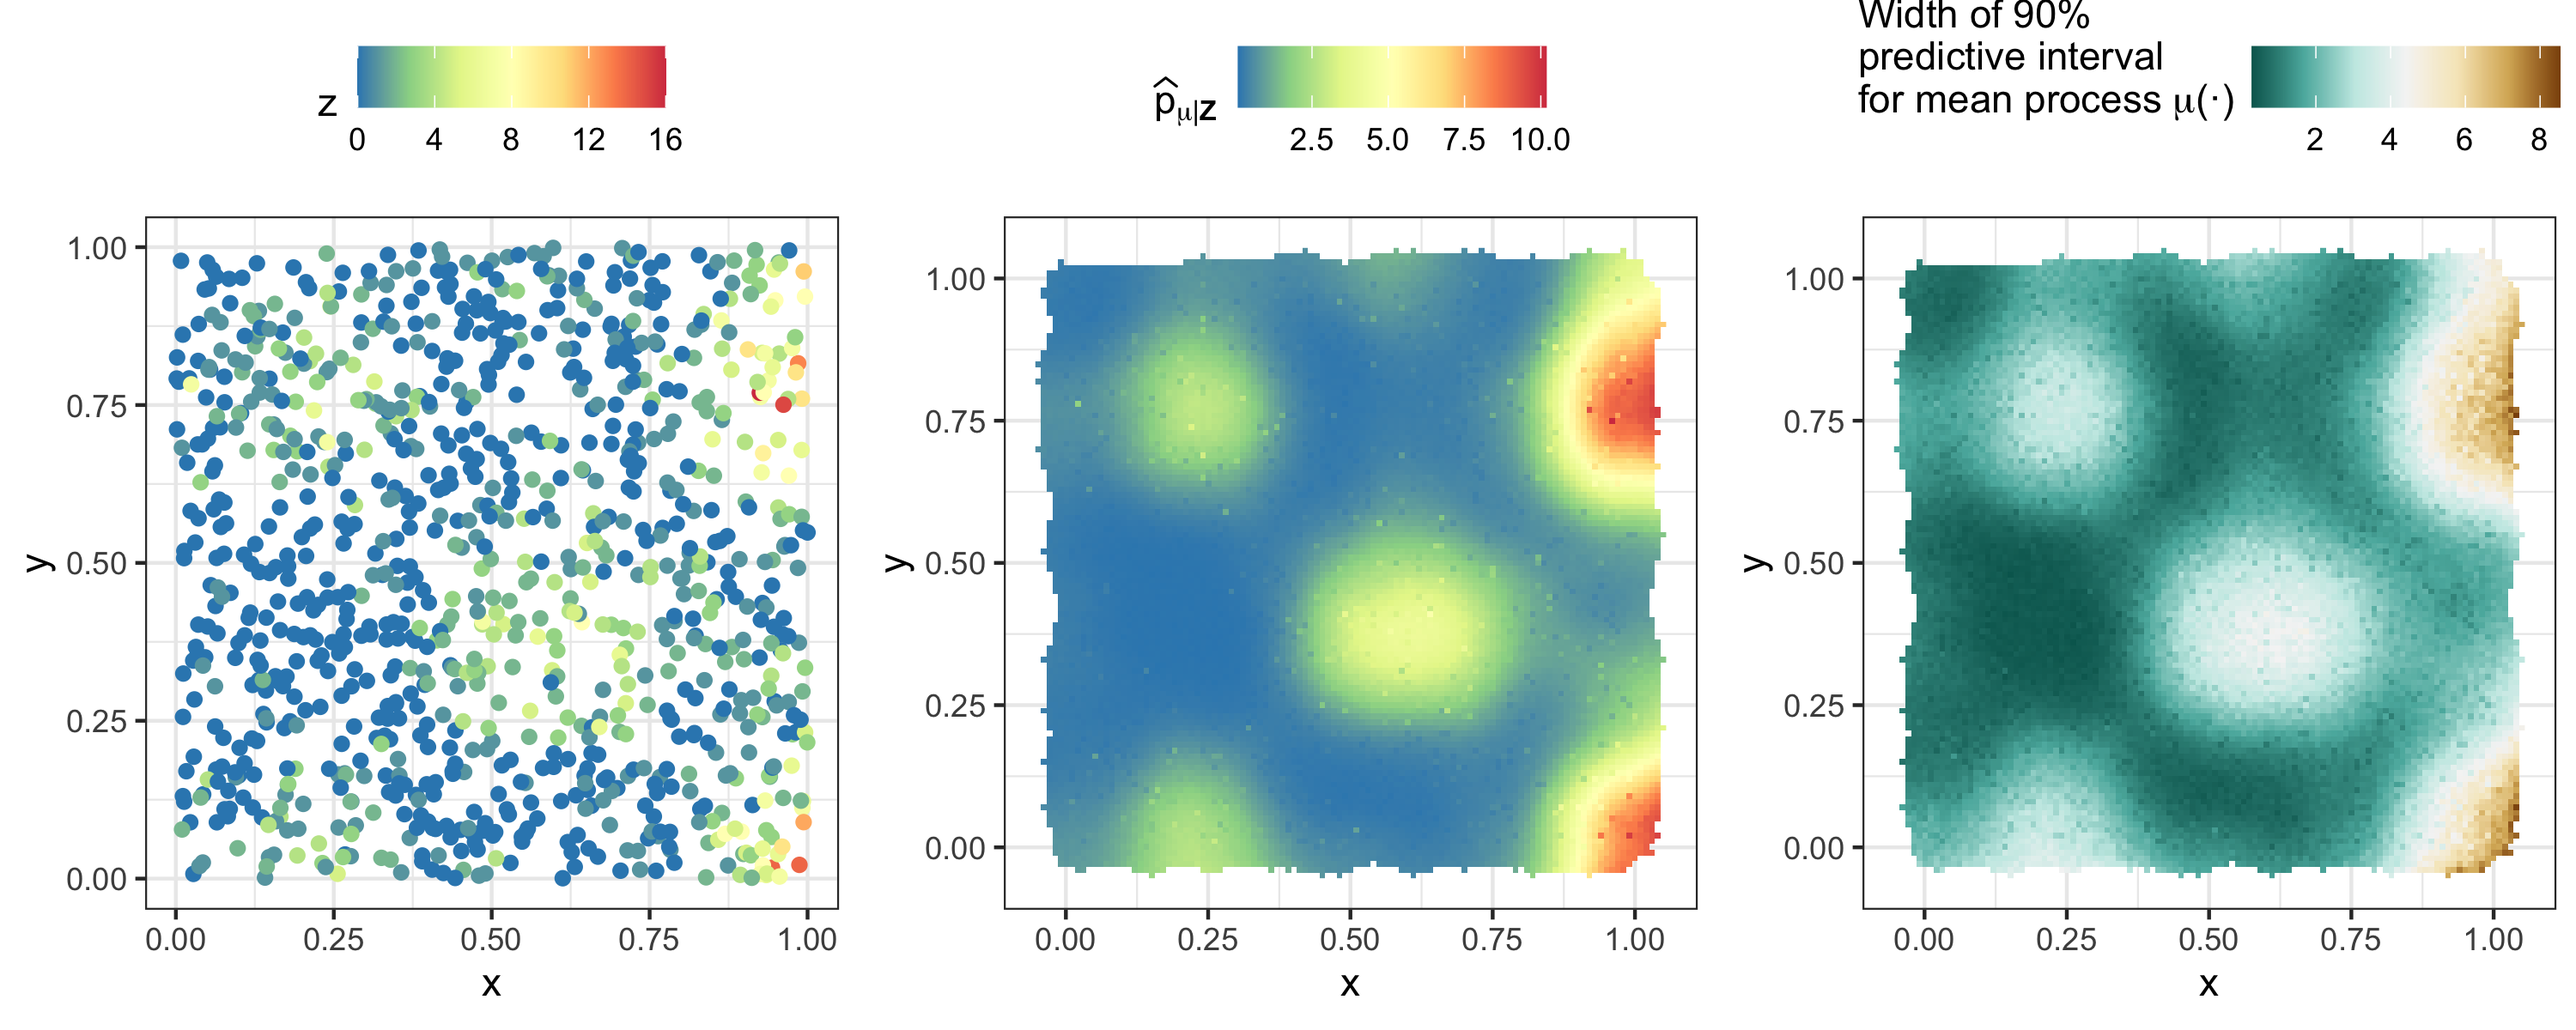
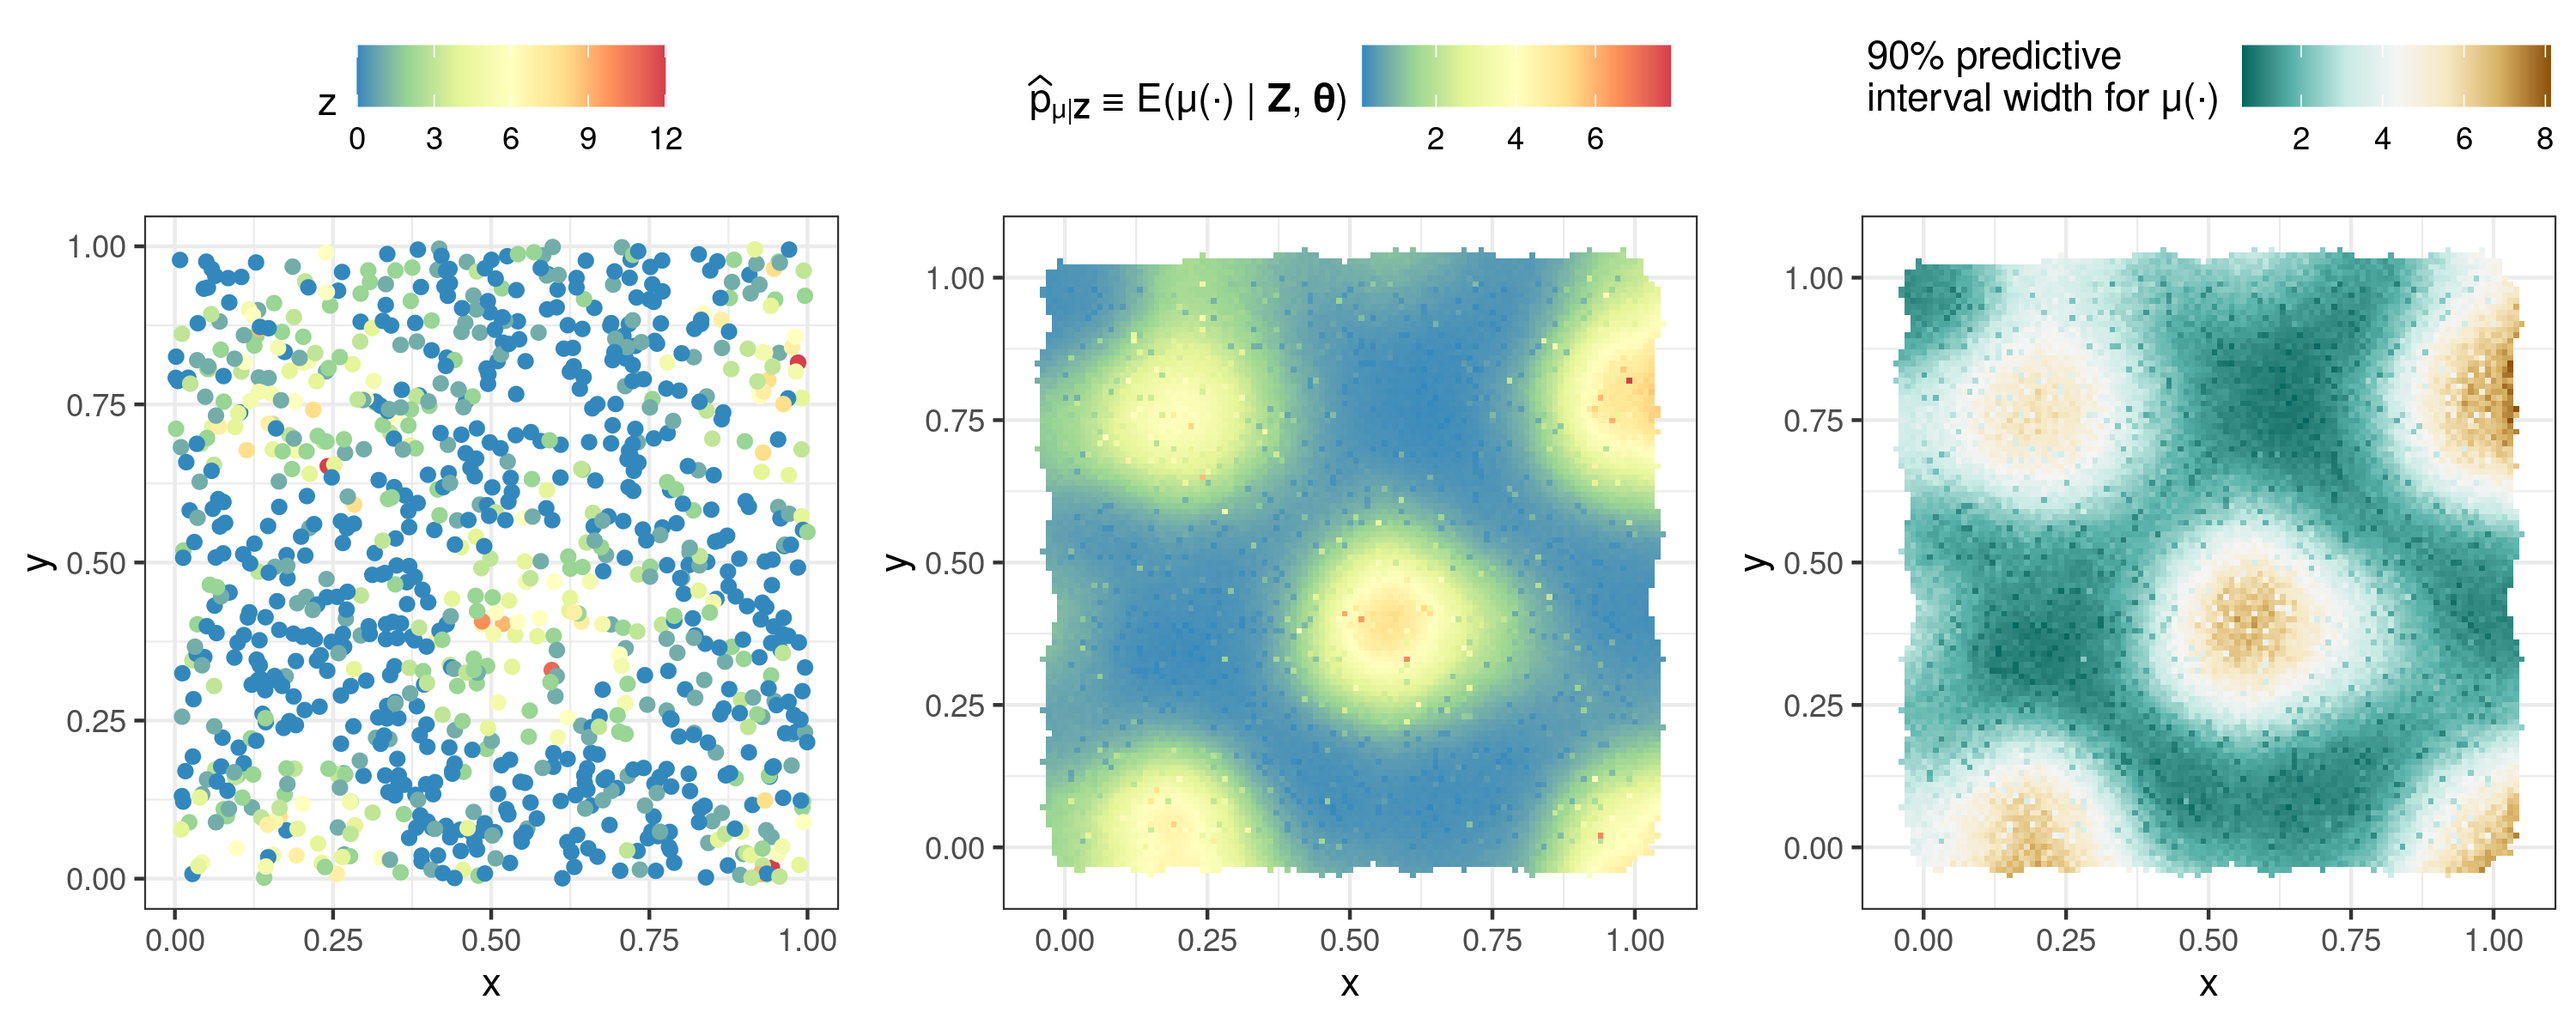
Updated README

diff --git a/README.md b/README.md
@@ -87,7 +87,6 @@ pred <- predict(S)                          # Prediction stage
 
 ## Plotting
 plot_list <- plot(S, pred)
-plot_list <- c(plot_list, plot_spatial_or_ST(zdf, "z"))
 ggarrange(plotlist = plot_list, nrow = 1, legend = "top")
 
 ```
@@ -96,7 +95,7 @@ ggarrange(plotlist = plot_list, nrow = 1, legend = "top")
 ggsave( 
   filename = "Gaussian_data.png", device = "png", 
   width = 10, height = 4,
-  path = "~/Desktop/"
+  path = "~/Dropbox/FRK/man/figures/"
 )
 --->
 
@@ -107,32 +106,26 @@ ggsave(
 Here we analyse simulated Poisson data. We signify a Poisson data model with a mean response that is modelled using the square-root link function by setting `response = "poisson"` and `link = "square-root"` in `FRK()`. Other non-Gaussian data models available in `FRK` are the binomial, negative-binomial, gamma, and inverse-Gaussian. 
 
 ```r
-## Setup
-## Simulate Poisson data, using the data of the previous example to construct a mean 
-RNGversion("3.6.0"); set.seed(1)                          
+## Simulate Poisson data using the previous example's data to construct a mean 
 zdf$z <- rpois(m, lambda = zdf$z^2)
 
 ## Run FRK
-S <- FRK(f = z ~ 1,                           # Formula to FRK
-         list(zdf),                           # All datasets are supplied in list
+S <- FRK(f = z ~ 1, list(zdf),                          
          response = "poisson",                # Poisson data model
          link = "square-root")                # square-root link function
-pred <- predict(S)                            # prediction stage
-
+pred <- predict(S)                            
 
 ## Plotting
 plot_list <- plot(S, pred$newdata)
-plot_list <- c(plot_list, plot_spatial_or_ST(zdf, "z"))
 ggarrange(plot_list$z, plot_list$p_mu, plot_list$interval90_mu, 
           nrow = 1, legend = "top")
-
              
 ```    
 <!---
 ggsave( 
   filename = "Poisson_data.png", device = "png", 
   width = 10, height = 4,
-  path = "~/Desktop/"
+  path = "~/Dropbox/FRK/man/figures/"
 )
 --->
 
@@ -149,44 +142,41 @@ data("NOAA_df_1990")
 Tmax <- subset(NOAA_df_1990, month %in% 7 & year == 1993)
 Tmax <- within(Tmax, {time = as.Date(paste(year,month,day,sep="-"))})
 STObj <- stConstruct(x = Tmax, space = c("lon","lat"), time = "time", interval = TRUE)
-STObj$std <- 2
 
-## BAUs
-## Choose spatial BAUs as 1x1 pixels, temporal BAUs as 1 day intervals
+## BAUs: spatial BAUs are 1x1 pixels, temporal BAUs are 1 day intervals
 BAUs <- auto_BAUs(manifold = STplane(), 
                        cellsize = c(1, 1, 1),    
                        data=STObj, tunit = "days")
-BAUs$fs <- 1 # scale fine-scale variance matrix, implicit in previous examples
+BAUs$fs <- 1 # scalar fine-scale variance matrix, implicit in previous examples
 
 ## Basis functions
 G <- auto_basis(manifold = STplane(), data = STObj, nres = 2, tunit = "days")
 
 ## Run FRK
+STObj$std <- 2 # fix the measurement error variance
 S <- FRK(f = z ~ 1 + lat, data = list(STObj), 
          basis = G, BAUs = BAUs, est_error = FALSE, method = "TMB")
-pred <- predict(S)
+pred <- predict(S, percentiles = NULL)
 
 ## Plotting: include only some times via the argument subset_time
 plot_list <- plot(S, pred$newdata, subset_time = c(1, 7, 13, 19, 25, 31)) 
 
+## Plotting
+ggarrange(plotlist = plot_list, nrow = 1, legend = "top") 
+```
+
+<!---
 ## Apply a labeller so the facet shows day x rather than just x
 facet_names <- paste0("day ", unique(pred$newdata$t))
 names(facet_names) <- unique(pred$newdata$t)
 plot_list <- lapply(
   plot_list, 
   function(gg) gg + facet_wrap(~t, labeller = as_labeller(facet_names)))
-
-## Plot the predictions and uncertainty
-ggarrange(plot_list$p_mu, plot_list$interval90_mu, legend = "top") 
-
-
-```
-
-<!---
+  
 ggsave( 
   filename = "ST_data.png", device = "png", 
-  width = 8.5, height = 3.8,
-  path = "~/Desktop/"
+  width = 12.5, height = 3.8,
+  path = "~/Dropbox/FRK/man/figures/"
 )
 --->
 
